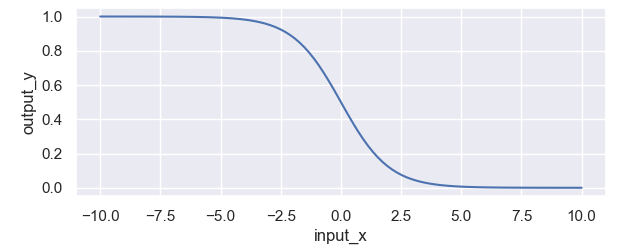
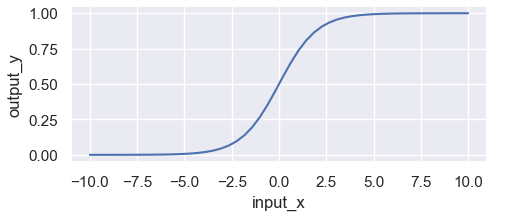
update

diff --git a/src/activation_fun.py b/src/activation_fun.py
@@ -6,7 +6,7 @@ sns.set_theme(style="darkgrid")
 
 
 def sigmoid(x):
-    return 1/(1+np.exp(x))
+    return 1/(1+np.exp(-x))
 
 def sigmoid_diff(x):
     return sigmoid(x)*(1-sigmoid(x))
@@ -29,6 +29,18 @@ def tanh(x):
 def tanh_diff(x):
     return 1-tanh(x)**2
 
+def Leak_relu(x):
+    if x<=0:
+        return 0.01*x
+    else:
+        return x
+    
+def silu(x):
+    return x*sigmoid(x)
+
+def silu_diff(x):
+    return sigmoid(x)*(1+x-x*sigmoid(x))
+
 def draw_func(xs, ys):
     for input_x, output_y in zip(xs, ys):
         data = pd.DataFrame({"input_x":input_x,
@@ -41,8 +53,9 @@ def draw_func(xs, ys):
 
 
 if __name__=="__main__":
-    x1 = np.linspace(-10, 10, num=50)
-    y1 = [tanh_diff(item) for item in x1]
+    func_name = silu_diff
+    x1 = np.linspace(-10, 5, num=500)
+    y1 = [func_name(item) for item in x1]
     # x2 = list(np.linspace(0, 10, num=50))[1:]
     # y2 = [ReLU_diff(item) for item in x2]
     draw_func([x1], [y1])

diff --git a/DL_base.md b/DL_base.md
@@ -1,17 +1,17 @@
 # 深度学习基础
-## 激活函数
+## 一、激活函数
 为什么要在网络中引入激活函数？如果不引入激活函数那么我们的网络是这个样子的 $f(x)=A(B(CX))=ABCX=DX,ABC=D$ 。那么，我们的神经网络的就变成了一个线性函数，是空间中的一个超平面，大大限制了神经网络的拟合能力。激活函数就是给神经网络引入非线性，使得神经网络可以拟合各种复杂函数。那么任何激活函数可以随便选择吗？
 
-### Sigmoid
+### (1) Sigmoid
 * 函数公式：
 
-$$f(x)=\frac{1}{1+e^{-x}}$$
+$$sigmoid(x)=\frac{1}{1+e^{-x}}$$
 
 <img src="asset/sigmoid.png">
 
 * 导数公式：
 
-$$f^{'}(x)=f(x)(1-f(x))$$
+$$sigmoid^{'}(x)=sigmoid(x)(1-sigmoid(x))$$
 
 <img src="asset/sigmoid_diff.png">
 
@@ -24,7 +24,7 @@ $$f^{'}(x)=f(x)(1-f(x))$$
     * sigmoid 导数的取值范围是 [0, 0.25]，最大值都是小于 1 的，反向传播时又是"链式传导"，经过几次相乘之后很容易就会出现梯度消失的问题，不利于模型加深；
     * sigmoid 的输出的均值不是0（即zero-centered），这会导致当前层接收到上一层的非0均值的信号作为输入，随着网络的加深，会改变数据的原始分布，不利于模型的收敛。
 
-### Tanh
+### (2) Tanh
 Tanh激活函数的公式为：
 
 $$Tanh(x)=\frac{e^x-e^{-x}}{e^{x}+e^{-x}}=1-\frac{2}{e^{2x}+1}$$
@@ -40,7 +40,7 @@ $$Tanh^{'}(x)=1-(Tanh(x))^2$$
 从结果我们发现 $tanh$ 和 $sigmoid$ 的函数及其导数的图像是非常相似的，不同的是前者函数取值范围为 $[-1,1]$,解决了 sigmoid 函数输出的均值不是0（zero-centered）的问题； 前者导函数取值的范围比后者要大，一定程度上缓解了梯度消失的现象。但是缺点也明显：**幂运算导致计算量大**
 
 
-### ReLU
+### (3) ReLU
 ReLU 全称为 Rectified Linear Unit，即修正线性单元函数。该函数的公式比较简单，相应的公式和图像如下表所示。
 * 函数公式
 
@@ -60,10 +60,46 @@ $$ReLU(x)=\begin{cases}
 
 <img src="asset/relu_diff.png">
 
-## 损失函数
+* ReLU函数以及其导数的计算公式非常的简单
+* 当 $x<0$, ReLU导函数直接将导数置为0，类似dropout，这在一方面能够产生稀疏矩阵减少一些特征的干扰，提升模型的鲁棒性；但是直接直接将导数置为0（不加任何策略）可能会导致一些神经元无法有效更新，导致直接坏死。
+* ReLU 的输出不是 0 均值的，这个和 sigmoid 类似。
 
-## Pytorch
+### (4) Leaky ReLU
 
+函数公式：
+
+$$Leaky \operatorname{ReLU}(x)=\left\{\begin{array}{ll}0.01 x & \text { if } z \leqslant 0 \\ z & \text { if } z>0\end{array}\right\}$$
+
+导数公式：
+
+
+### (5) ELU（指数线性单元）
+$$\operatorname{ELU}(x)=\left\{\begin{array}{ll}x, & x>0 \\ 
+\alpha(e^x-1), &  x\leqslant0
+\end{array}\right\}$$
+
+### (6) GELUs (Gaussian Error Linear Units) 
+
+### (7) Swish (Self-Gated Activation Function)
+
+### (8) Silu (Sigmoid Linear Unit)
+
+函数公式：
+
+$$silu(x)=x*sigmoid(x)$$
+
+<img src="asset/silu.png">
+
+导函数公式：
+
+$$silu^{'}(x)=sigmoid(x)(1+x-x*sigmoid(x))$$
+
+<img src="asset/silu_diff.png">
+
+## 二、损失函数
+
+
+## 三、采样算法
 ## 蒙特卡洛算法
 
 #### 例子1:估计圆周率的值
